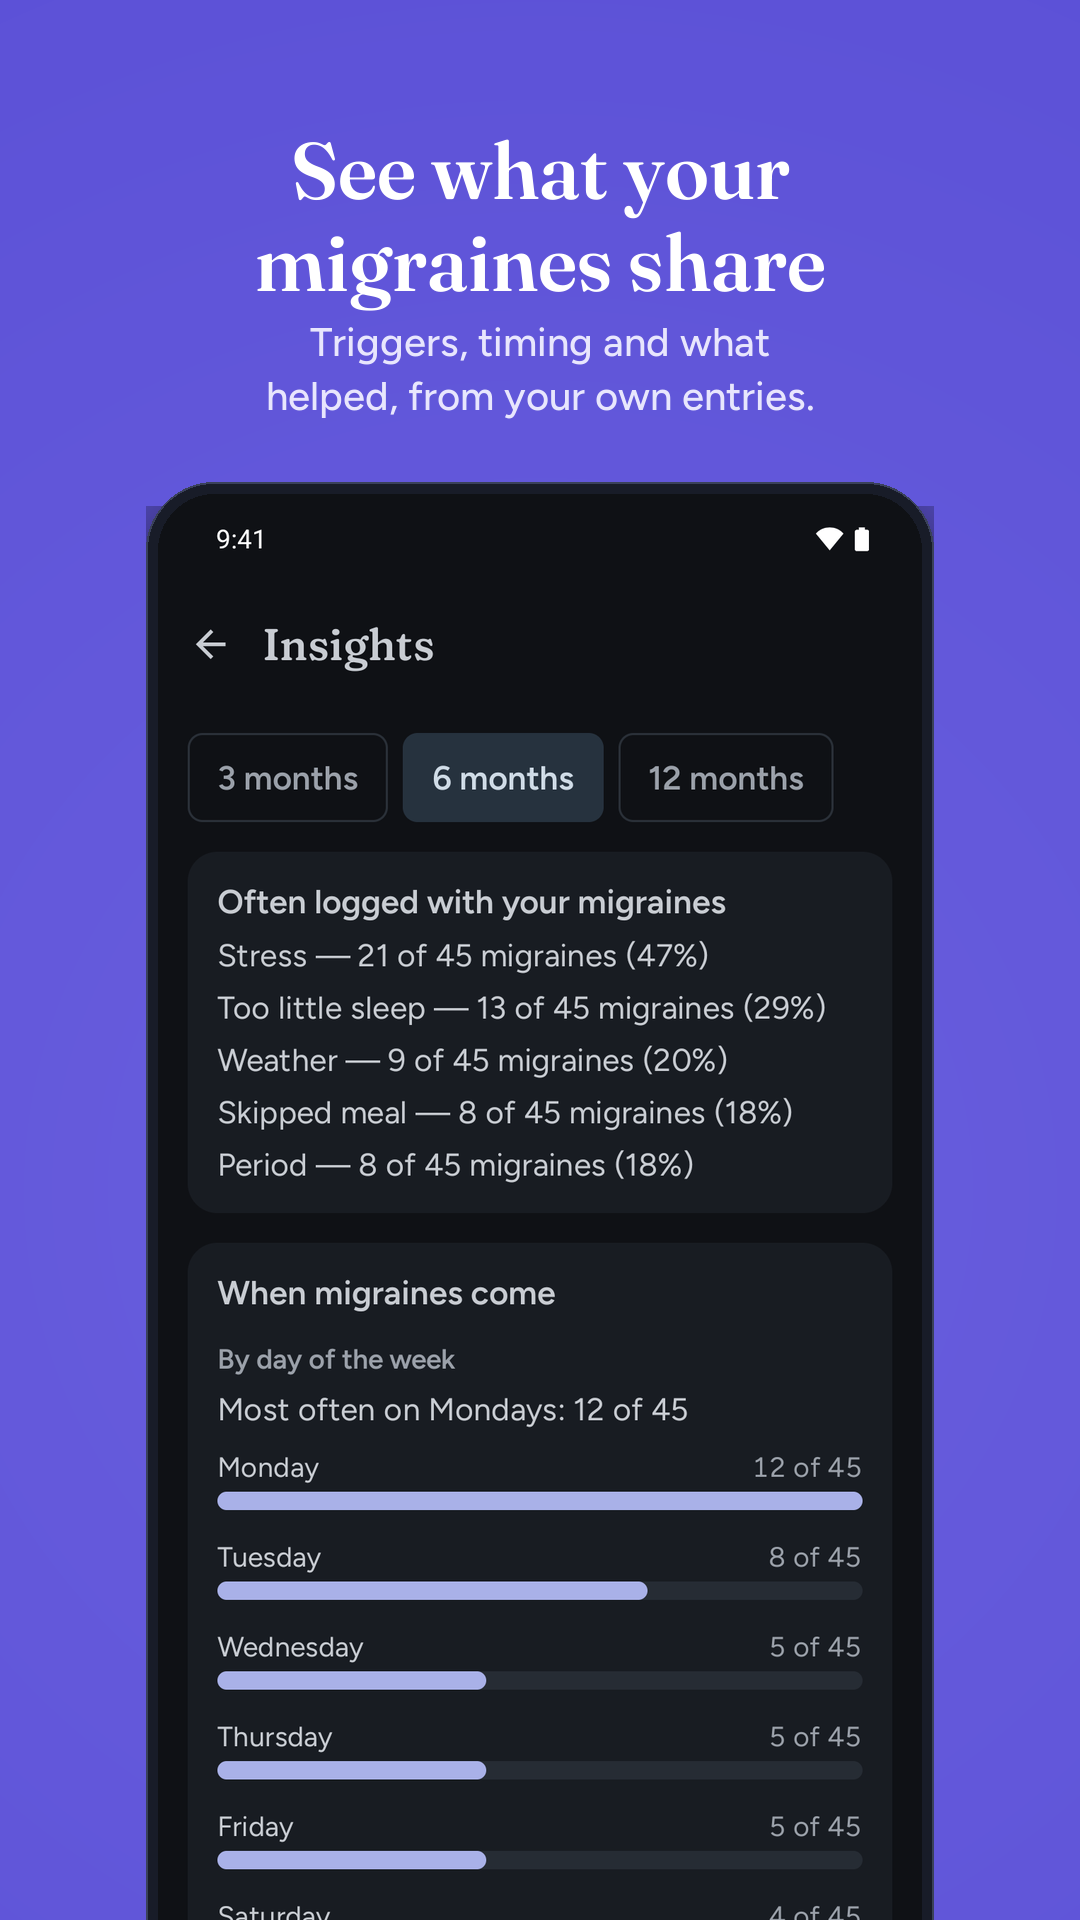
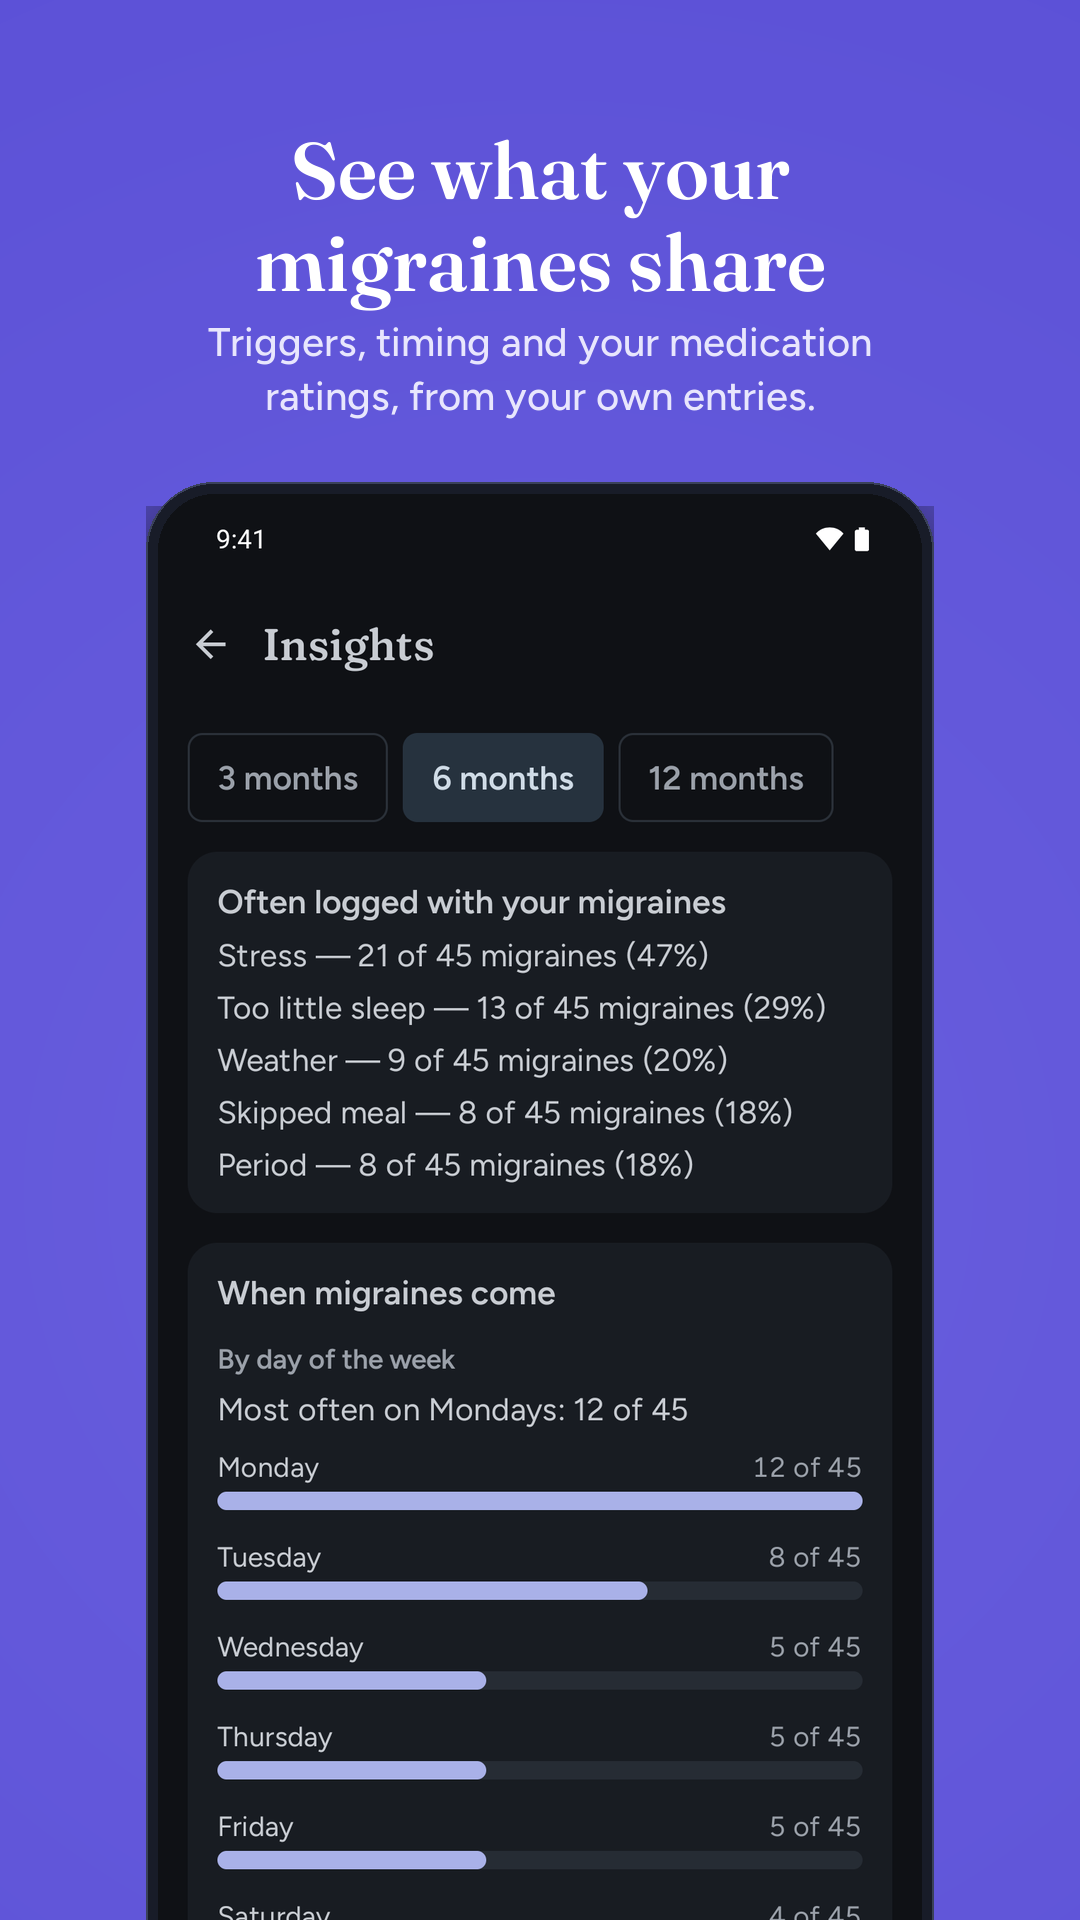
Replace relief wording in store art and listing text
Screenshot 05 headline and sub-line, the 04 sub-line, listing.md and
play-products.md now use the medical-reviewer texts from #209. Art was
re-rendered by migrely-work/store-art/compose.py (text only, 1080x1920).
The in-app screens inside 04 and 05 are unchanged.

Refs #209

Changed region(s): [[0.1833, 0.1562, 0.7944, 0.2188]]

diff --git a/docs/release/listing.md b/docs/release/listing.md
@@ -43,7 +43,7 @@ FOR YOUR DOCTOR (PREMIUM)
 • A PDF migraine diary report: a summary, a calendar and every migraine and medication, ready to share with your doctor or neurologist
 
 UNDERSTAND YOUR PATTERNS (PREMIUM)
-• Triggers often logged with your migraines, the days and hours they come, the days around your period for menstrual migraine, what helped, and the last 12 months
+• Triggers often logged with your migraines, the days and hours they come, the days around your period for menstrual migraine, how you rated your medications, and the last 12 months
 
 MIGRELY PREMIUM
 • Premium adds the doctor report and Insights: yearly, with a 7-day free trial for new subscribers, monthly, or a single lifetime payment, all through Google Play

diff --git a/docs/release/play-products.md b/docs/release/play-products.md
@@ -13,7 +13,7 @@ track, which 13b `publish-to-play` does first.
 |---|---|
 | Product ID | `migrely_premium` |
 | Name | Migrely Premium |
-| Benefits (up to 4, shown by Play) | A PDF report for your doctor · Triggers and patterns in your migraines · What helped, and when migraines come · The last 12 months at a glance |
+| Benefits (up to 4, shown by Play) | A PDF report for your doctor · Triggers and patterns in your migraines · Your medication ratings, migraine timing · The last 12 months at a glance |
 | Icon | The 512 × 512 Play icon, also on `migrely_lifetime` |
 
 ### Base plans
